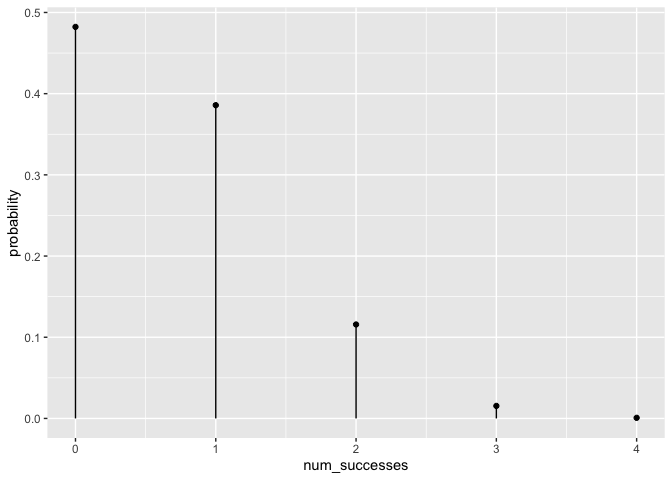
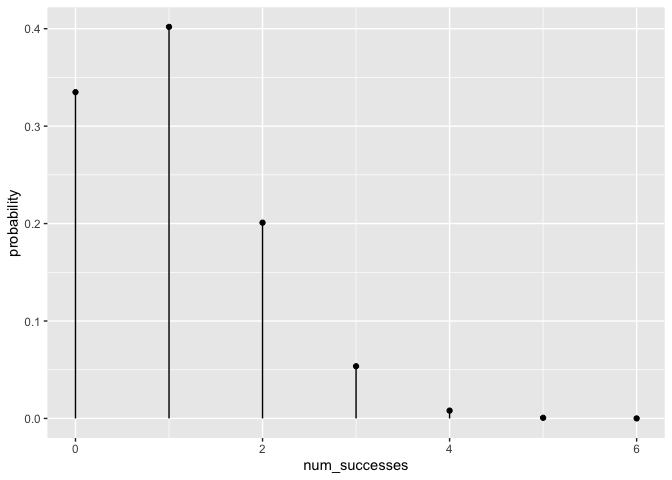
scale_x_counting

diff --git a/docs/index.html b/docs/index.html
@@ -65,7 +65,7 @@
 <div class="section level2">
 <h2 id="abstract">Abstract<a class="anchor" aria-label="anchor" href="#abstract"></a>
 </h2>
-<p>Mathematical fluency involves frequent use of probability distributions. However, visualizing these distributions can be tedious. In a classroom setting with a given curriculum, the set of distributions to be mastered is well defined. Having shortcuts to produce or ingest these distributions in analytic software for display and analysis could be beneficial for students and instructors alike. The goal of this project is to provide ready-to-use dataframes and functions producing relevant dataframes. We make these functions available in the R package <code>ma206distributions</code>.</p>
+<p>Mathematical fluency involves frequent use of probability distributions. However, visualizing these distributions can be tedious. In a fixed statistics and probability curriculum, the set of distributions to be mastered is well defined. In such settings having shortcuts to produce or ingest these distributions in analytic software for display and analysis could be beneficial for students and instructors alike. The goal of this project is to provide ready-to-use objects (dataframes) and functions that will meet students will make it easier to engage computationally and with these distributions. We make these objects and functions available in the R package <code>ma206distributions</code>.</p>
 </div>
 <div class="section level2">
 <h2 id="which-distributions-are-relevant-for-the-statistics-and-probability-course">Which distributions are relevant for the statistics and probability course?<a class="anchor" aria-label="anchor" href="#which-distributions-are-relevant-for-the-statistics-and-probability-course"></a>
@@ -74,6 +74,7 @@
 <ul>
 <li>binomial</li>
 <li>geometric</li>
+<li>normal distribution</li>
 <li>random</li>
 </ul>
 </div>
@@ -81,15 +82,99 @@
 <h2 id="objectives">Objectives<a class="anchor" aria-label="anchor" href="#objectives"></a>
 </h2>
 <ol style="list-style-type: decimal">
+<li>Provide functions that return dataframes relating outcomes and probabilities for binomial and geometric distributions</li>
+<li>Providing quick-viz <em>stamp</em> functions for binomial and geometric distributions (normal and t exist in ggxmean); also think about rewrite for stamp_normal (i.e. what should height distribution look like?)</li>
 <li>Provide additional <strong>dataframes</strong> for ma206 that are probabilities from curriculum (probability problems in text book).<br>
 </li>
-<li>Provide <em>stamp</em> functions for binomial and geometric distributions (normal and t exist in ggxmean); also think about rewrite for stamp_normal (i.e. what should height distribution look like?)</li>
-<li>Let’s try: shiny app which 1) demonstrates distribution characteristics 2) showcases new functions quoting back ggplot code</li>
-<li>stretch? sampling from distributions function or guidance..</li>
+<li>Interactive app which 1) demonstrates distribution characteristics, allowing easy manipulation of parameters 2) connects to new package functionality by quoting back code underlying the app.</li>
 </ol>
+<div class="section level3">
+<h3 id="1-provide-data-frames-that-relate-outcomes-and-probabilities">1. provide data frames that relate outcomes and probabilities<a class="anchor" aria-label="anchor" href="#1-provide-data-frames-that-relate-outcomes-and-probabilities"></a>
+</h3>
+<p>We can look at vectors of outcomes, and then use dbinom to get back a vector of probabilities.</p>
+<div class="sourceCode" id="cb1"><pre class="downlit sourceCode r">
+<code class="sourceCode R"><span><span class="va">num_successes</span> <span class="op">&lt;-</span> <span class="fl">0</span><span class="op">:</span><span class="fl">10</span>; <span class="va">num_successes</span></span></code></pre></div>
+<div class="sourceCode" id="cb2"><pre class="sourceCode R"><code class="sourceCode r"><span id="cb2-1"><a href="#cb2-1"></a><span class="co">##  [1]  0  1  2  3  4  5  6  7  8  9 10</span></span></code></pre></div>
+<div class="sourceCode" id="cb3"><pre class="downlit sourceCode r">
+<code class="sourceCode R"><span><span class="fu"><a href="https://rdrr.io/r/stats/Binomial.html" class="external-link">dbinom</a></span><span class="op">(</span><span class="va">num_successes</span>, prob <span class="op">=</span> <span class="fl">.5</span>, size <span class="op">=</span> <span class="fl">10</span><span class="op">)</span></span></code></pre></div>
+<div class="sourceCode" id="cb4"><pre class="sourceCode R"><code class="sourceCode r"><span id="cb4-1"><a href="#cb4-1"></a><span class="co">##  [1] 0.0009765625 0.0097656250 0.0439453125 0.1171875000 0.2050781250</span></span>
+<span id="cb4-2"><a href="#cb4-2"></a><span class="co">##  [6] 0.2460937500 0.2050781250 0.1171875000 0.0439453125 0.0097656250</span></span>
+<span id="cb4-3"><a href="#cb4-3"></a><span class="co">## [11] 0.0009765625</span></span></code></pre></div>
+<div class="sourceCode" id="cb5"><pre class="downlit sourceCode r">
+<code class="sourceCode R"><span><span class="kw"><a href="https://rdrr.io/r/base/library.html" class="external-link">library</a></span><span class="op">(</span><span class="va">ma206distributions</span><span class="op">)</span></span>
+<span><span class="co"># probability of number of heads in 10 coin flips</span></span>
+<span><span class="fu"><a href="reference/tidy_dbinom.html">tidy_dbinom</a></span><span class="op">(</span>single_trial_prob <span class="op">=</span> <span class="fl">.5</span>, <span class="fl">10</span><span class="op">)</span></span></code></pre></div>
+<div class="sourceCode" id="cb6"><pre class="sourceCode R"><code class="sourceCode r"><span id="cb6-1"><a href="#cb6-1"></a><span class="co">## # A tibble: 11 × 4</span></span>
+<span id="cb6-2"><a href="#cb6-2"></a><span class="co">##    num_successes probability single_trial_prob num_trials</span></span>
+<span id="cb6-3"><a href="#cb6-3"></a><span class="co">##            &lt;int&gt;       &lt;dbl&gt;             &lt;dbl&gt;      &lt;dbl&gt;</span></span>
+<span id="cb6-4"><a href="#cb6-4"></a><span class="co">##  1             0    0.000977               0.5         10</span></span>
+<span id="cb6-5"><a href="#cb6-5"></a><span class="co">##  2             1    0.00977                0.5         10</span></span>
+<span id="cb6-6"><a href="#cb6-6"></a><span class="co">##  3             2    0.0439                 0.5         10</span></span>
+<span id="cb6-7"><a href="#cb6-7"></a><span class="co">##  4             3    0.117                  0.5         10</span></span>
+<span id="cb6-8"><a href="#cb6-8"></a><span class="co">##  5             4    0.205                  0.5         10</span></span>
+<span id="cb6-9"><a href="#cb6-9"></a><span class="co">##  6             5    0.246                  0.5         10</span></span>
+<span id="cb6-10"><a href="#cb6-10"></a><span class="co">##  7             6    0.205                  0.5         10</span></span>
+<span id="cb6-11"><a href="#cb6-11"></a><span class="co">##  8             7    0.117                  0.5         10</span></span>
+<span id="cb6-12"><a href="#cb6-12"></a><span class="co">##  9             8    0.0439                 0.5         10</span></span>
+<span id="cb6-13"><a href="#cb6-13"></a><span class="co">## 10             9    0.00977                0.5         10</span></span>
+<span id="cb6-14"><a href="#cb6-14"></a><span class="co">## 11            10    0.000977               0.5         10</span></span></code></pre></div>
+<div class="sourceCode" id="cb7"><pre class="downlit sourceCode r">
+<code class="sourceCode R"><span><span class="co"># probabilities of rolling 0, 1, 2, 3 or 4 sixes in 4 die roles</span></span>
+<span><span class="fu"><a href="reference/tidy_dbinom.html">tidy_dbinom</a></span><span class="op">(</span>single_trial_prob <span class="op">=</span> <span class="fl">1</span><span class="op">/</span><span class="fl">6</span>, <span class="fl">4</span><span class="op">)</span></span></code></pre></div>
+<div class="sourceCode" id="cb8"><pre class="sourceCode R"><code class="sourceCode r"><span id="cb8-1"><a href="#cb8-1"></a><span class="co">## # A tibble: 5 × 4</span></span>
+<span id="cb8-2"><a href="#cb8-2"></a><span class="co">##   num_successes probability single_trial_prob num_trials</span></span>
+<span id="cb8-3"><a href="#cb8-3"></a><span class="co">##           &lt;int&gt;       &lt;dbl&gt;             &lt;dbl&gt;      &lt;dbl&gt;</span></span>
+<span id="cb8-4"><a href="#cb8-4"></a><span class="co">## 1             0    0.482                0.167          4</span></span>
+<span id="cb8-5"><a href="#cb8-5"></a><span class="co">## 2             1    0.386                0.167          4</span></span>
+<span id="cb8-6"><a href="#cb8-6"></a><span class="co">## 3             2    0.116                0.167          4</span></span>
+<span id="cb8-7"><a href="#cb8-7"></a><span class="co">## 4             3    0.0154               0.167          4</span></span>
+<span id="cb8-8"><a href="#cb8-8"></a><span class="co">## 5             4    0.000772             0.167          4</span></span></code></pre></div>
+<div class="sourceCode" id="cb9"><pre class="downlit sourceCode r">
+<code class="sourceCode R"><span><span class="co"># probability of 0, 1, 2 or 3 wins in 3 spins of a prize wheel  </span></span>
+<span><span class="co"># 12 pie slices, one with big payout</span></span>
+<span><span class="fu"><a href="reference/tidy_dbinom.html">tidy_dbinom</a></span><span class="op">(</span><span class="fl">1</span><span class="op">/</span><span class="fl">12</span>, <span class="fl">3</span><span class="op">)</span></span></code></pre></div>
+<div class="sourceCode" id="cb10"><pre class="sourceCode R"><code class="sourceCode r"><span id="cb10-1"><a href="#cb10-1"></a><span class="co">## # A tibble: 4 × 4</span></span>
+<span id="cb10-2"><a href="#cb10-2"></a><span class="co">##   num_successes probability single_trial_prob num_trials</span></span>
+<span id="cb10-3"><a href="#cb10-3"></a><span class="co">##           &lt;int&gt;       &lt;dbl&gt;             &lt;dbl&gt;      &lt;dbl&gt;</span></span>
+<span id="cb10-4"><a href="#cb10-4"></a><span class="co">## 1             0    0.770               0.0833          3</span></span>
+<span id="cb10-5"><a href="#cb10-5"></a><span class="co">## 2             1    0.210               0.0833          3</span></span>
+<span id="cb10-6"><a href="#cb10-6"></a><span class="co">## 3             2    0.0191              0.0833          3</span></span>
+<span id="cb10-7"><a href="#cb10-7"></a><span class="co">## 4             3    0.000579            0.0833          3</span></span></code></pre></div>
+</div>
+<div class="section level3">
+<h3 id="2-stamp-visualizations">2. Stamp visualizations<a class="anchor" aria-label="anchor" href="#2-stamp-visualizations"></a>
+</h3>
+<div class="sourceCode" id="cb11"><pre class="downlit sourceCode r">
+<code class="sourceCode R"><span><span class="kw"><a href="https://rdrr.io/r/base/library.html" class="external-link">library</a></span><span class="op">(</span><span class="va"><a href="https://ggplot2.tidyverse.org" class="external-link">ggplot2</a></span><span class="op">)</span></span>
+<span><span class="fu"><a href="https://ggplot2.tidyverse.org/reference/ggplot.html" class="external-link">ggplot</a></span><span class="op">(</span><span class="op">)</span> <span class="op">+</span> </span>
+<span>  <span class="fu"><a href="reference/geom_lollipop.html">geom_lollipop</a></span><span class="op">(</span>data <span class="op">=</span> <span class="fu"><a href="reference/tidy_dbinom.html">tidy_dbinom</a></span><span class="op">(</span>single_trial_prob <span class="op">=</span> <span class="fl">.5</span>, <span class="fl">10</span><span class="op">)</span>,</span>
+<span>                <span class="fu"><a href="https://ggplot2.tidyverse.org/reference/aes.html" class="external-link">aes</a></span><span class="op">(</span>x <span class="op">=</span> <span class="va">num_successes</span>, y <span class="op">=</span> <span class="va">probability</span><span class="op">)</span><span class="op">)</span></span></code></pre></div>
+<p><img src="README_files/figure-gfm/unnamed-chunk-3-1.png"><!-- --></p>
+<div class="sourceCode" id="cb12"><pre class="downlit sourceCode r">
+<code class="sourceCode R"><span><span class="va">stamp_dbinom</span> <span class="op">&lt;-</span> <span class="kw">function</span><span class="op">(</span><span class="va">single_trial_prob</span> <span class="op">=</span> <span class="fl">.5</span>, <span class="va">num_trials</span> <span class="op">=</span> <span class="fl">10</span><span class="op">)</span><span class="op">{</span></span>
+<span>  </span>
+<span>  <span class="fu"><a href="reference/geom_lollipop.html">geom_lollipop</a></span><span class="op">(</span>data <span class="op">=</span> <span class="fu"><a href="reference/tidy_dbinom.html">tidy_dbinom</a></span><span class="op">(</span>single_trial_prob <span class="op">=</span> <span class="va">single_trial_prob</span>, </span>
+<span>                                   num_trials <span class="op">=</span> <span class="va">num_trials</span><span class="op">)</span>,</span>
+<span>                <span class="fu"><a href="https://ggplot2.tidyverse.org/reference/aes.html" class="external-link">aes</a></span><span class="op">(</span>x <span class="op">=</span> <span class="va">num_successes</span>, y <span class="op">=</span> <span class="va">probability</span><span class="op">)</span><span class="op">)</span></span>
+<span>  </span>
+<span><span class="op">}</span></span>
+<span></span>
+<span></span>
+<span><span class="fu"><a href="https://ggplot2.tidyverse.org/reference/ggplot.html" class="external-link">ggplot</a></span><span class="op">(</span><span class="op">)</span> <span class="op">+</span> </span>
+<span>  <span class="fu">stamp_dbinom</span><span class="op">(</span><span class="op">)</span></span></code></pre></div>
+<p><img src="README_files/figure-gfm/unnamed-chunk-4-1.png"><!-- --></p>
+<div class="sourceCode" id="cb13"><pre class="downlit sourceCode r">
+<code class="sourceCode R"><span><span class="fu"><a href="https://ggplot2.tidyverse.org/reference/ggplot.html" class="external-link">ggplot</a></span><span class="op">(</span><span class="op">)</span> <span class="op">+</span> </span>
+<span>  <span class="fu">stamp_dbinom</span><span class="op">(</span><span class="fl">1</span><span class="op">/</span><span class="fl">6</span>, num_trials <span class="op">=</span> <span class="fl">6</span><span class="op">)</span></span></code></pre></div>
+<p><img src="README_files/figure-gfm/unnamed-chunk-4-2.png"><!-- --></p>
+<div class="sourceCode" id="cb14"><pre class="downlit sourceCode r">
+<code class="sourceCode R"><span><span class="fu"><a href="https://ggplot2.tidyverse.org/reference/ggplot.html" class="external-link">ggplot</a></span><span class="op">(</span><span class="op">)</span> <span class="op">+</span> </span>
+<span>  <span class="fu">stamp_dbinom</span><span class="op">(</span><span class="fl">1</span><span class="op">/</span><span class="fl">12</span>, num_trials <span class="op">=</span> <span class="fl">3</span><span class="op">)</span></span></code></pre></div>
+<p><img src="README_files/figure-gfm/unnamed-chunk-4-3.png"><!-- --></p>
+</div>
 </div>
 <div class="section level2">
-<h2 id="tidying-data-from-discrete-random-variable-probability-problems">Tidying data from discrete random variable probability problems<a class="anchor" aria-label="anchor" href="#tidying-data-from-discrete-random-variable-probability-problems"></a>
+<h2 id="3-tidying-data-from-discrete-random-variable-probability-problems">3. Tidying data from discrete random variable probability problems<a class="anchor" aria-label="anchor" href="#3-tidying-data-from-discrete-random-variable-probability-problems"></a>
 </h2>
 <p>Tidying up data is important so that when the data is inputted into R or any coding language. This process of ‘tidying’ data creates a well-organized and structured format that is easier for data analysis and visualization.</p>
 <p>Probability tables are often communicated in untidy, wide forms not easily ingested by statistical software. (another example: <a href="http://www.stat.yale.edu/Courses/1997-98/101/ranvar.htm#" class="external-link uri">http://www.stat.yale.edu/Courses/1997-98/101/ranvar.htm#</a>:~:text=A%20discrete%20random%20variable%20is,then%20it%20must%20be%20discrete) For example, the table was provided for a probability problem about a spinning wheel with pie sectors with various prize award amounts:</p>
@@ -108,7 +193,7 @@
 </tr>
 </tbody></table>
 <p>The table summarized the situation:</p>
-<p><img src="README_files/figure-gfm/unnamed-chunk-2-1.png"><!-- --></p>
+<p><img src="README_files/figure-gfm/unnamed-chunk-6-1.png"><!-- --></p>
 <p>To get the data into a tidy, ready-to-use form, we transposed the table from wide to long so that a variable is a columns and the column headers inform us about the content. This way, each row forms an observation, in this case an event type. The spinning of the prize wheel has three outcomes based on which sector type the wheel landed on: no prize, win $1, and win $3. We added a numeric column ‘payout’ too which we makes the data easier to use from a mathematical standpoint. Below is our tidied data.</p>
 <table class="table">
 <thead><tr class="header">
@@ -135,15 +220,15 @@
 </tbody>
 </table>
 <p>In our package we include the data structured in this way, and call the object <code>prize_wheel</code>:</p>
-<div class="sourceCode" id="cb1"><pre class="downlit sourceCode r">
+<div class="sourceCode" id="cb15"><pre class="downlit sourceCode r">
 <code class="sourceCode R"><span><span class="kw"><a href="https://rdrr.io/r/base/library.html" class="external-link">library</a></span><span class="op">(</span><span class="va">ma206distributions</span><span class="op">)</span></span>
 <span><span class="fu"><a href="https://rdrr.io/r/base/print.html" class="external-link">print</a></span><span class="op">(</span><span class="va">prize_wheel</span><span class="op">)</span></span></code></pre></div>
-<div class="sourceCode" id="cb2"><pre class="sourceCode R"><code class="sourceCode r"><span id="cb2-1"><a href="#cb2-1"></a><span class="co">##   sector_type frequency payout</span></span>
-<span id="cb2-2"><a href="#cb2-2"></a><span class="co">## 1    No Prize         9      0</span></span>
-<span id="cb2-3"><a href="#cb2-3"></a><span class="co">## 2      Win $1         1      1</span></span>
-<span id="cb2-4"><a href="#cb2-4"></a><span class="co">## 3      Win $3         2      3</span></span></code></pre></div>
+<div class="sourceCode" id="cb16"><pre class="sourceCode R"><code class="sourceCode r"><span id="cb16-1"><a href="#cb16-1"></a><span class="co">##   sector_type frequency payout</span></span>
+<span id="cb16-2"><a href="#cb16-2"></a><span class="co">## 1    No Prize         9      0</span></span>
+<span id="cb16-3"><a href="#cb16-3"></a><span class="co">## 2      Win $1         1      1</span></span>
+<span id="cb16-4"><a href="#cb16-4"></a><span class="co">## 3      Win $3         2      3</span></span></code></pre></div>
 <p>We see that we can easily visualize the joint distribution of payout and frequency using the ggplot2 tool that is used heavily in the statistics part of the class.</p>
-<div class="sourceCode" id="cb3"><pre class="downlit sourceCode r">
+<div class="sourceCode" id="cb17"><pre class="downlit sourceCode r">
 <code class="sourceCode R"><span><span class="kw"><a href="https://rdrr.io/r/base/library.html" class="external-link">library</a></span><span class="op">(</span><span class="va"><a href="https://tidyverse.tidyverse.org" class="external-link">tidyverse</a></span><span class="op">)</span></span>
 <span><span class="va">prize_wheel</span> <span class="op"><a href="https://magrittr.tidyverse.org/reference/pipe.html" class="external-link">%&gt;%</a></span> </span>
 <span>  <span class="fu"><a href="https://ggplot2.tidyverse.org/reference/ggplot.html" class="external-link">ggplot</a></span><span class="op">(</span><span class="op">)</span> <span class="op">+</span> </span>
@@ -153,23 +238,23 @@
 <span>  <span class="fu"><a href="https://ggplot2.tidyverse.org/reference/aes.html" class="external-link">aes</a></span><span class="op">(</span>weight <span class="op">=</span> <span class="va">frequency</span><span class="op">)</span> <span class="op">+</span></span>
 <span>  <span class="fu"><a href="reference/geom_fulcrum.html">geom_fulcrum</a></span><span class="op">(</span>color <span class="op">=</span> <span class="st">"red"</span>, </span>
 <span>               shape <span class="op">=</span> <span class="fl">2</span>, size <span class="op">=</span> <span class="fl">5</span><span class="op">)</span></span></code></pre></div>
-<p><img src="README_files/figure-gfm/unnamed-chunk-5-1.png"><!-- --></p>
+<p><img src="README_files/figure-gfm/unnamed-chunk-9-1.png"><!-- --></p>
 </div>
 <div class="section level1">
 <div class="page-header"><h1 id="the-tabular-data-can-also-be-used-to-walk-through-computations-like-finding-the-expected-value-of-the-prize-wheel-spin">The tabular data can also be used to walk through computations, like finding the expected value of the prize wheel spin.<a class="anchor" aria-label="anchor" href="#the-tabular-data-can-also-be-used-to-walk-through-computations-like-finding-the-expected-value-of-the-prize-wheel-spin"></a>
 </h1></div>
-<div class="sourceCode" id="cb4"><pre class="downlit sourceCode r">
+<div class="sourceCode" id="cb18"><pre class="downlit sourceCode r">
 <code class="sourceCode R"><span><span class="fu"><a href="https://rdrr.io/r/base/sum.html" class="external-link">sum</a></span><span class="op">(</span><span class="va">prize_wheel</span><span class="op">$</span><span class="va">payout</span> <span class="op">*</span></span>
 <span>  <span class="va">prize_wheel</span><span class="op">$</span><span class="va">frequency</span><span class="op">)</span> <span class="op">/</span></span>
 <span>  <span class="fu"><a href="https://rdrr.io/r/base/sum.html" class="external-link">sum</a></span><span class="op">(</span><span class="va">prize_wheel</span><span class="op">$</span><span class="va">frequency</span><span class="op">)</span></span></code></pre></div>
-<div class="sourceCode" id="cb5"><pre class="sourceCode R"><code class="sourceCode r"><span id="cb5-1"><a href="#cb5-1"></a><span class="co">## [1] 0.5833333</span></span></code></pre></div>
-<div class="sourceCode" id="cb6"><pre class="downlit sourceCode r">
+<div class="sourceCode" id="cb19"><pre class="sourceCode R"><code class="sourceCode r"><span id="cb19-1"><a href="#cb19-1"></a><span class="co">## [1] 0.5833333</span></span></code></pre></div>
+<div class="sourceCode" id="cb20"><pre class="downlit sourceCode r">
 <code class="sourceCode R"><span><span class="kw"><a href="https://rdrr.io/r/base/library.html" class="external-link">library</a></span><span class="op">(</span><span class="va"><a href="https://tidyverse.tidyverse.org" class="external-link">tidyverse</a></span><span class="op">)</span></span>
 <span><span class="kw"><a href="https://rdrr.io/r/base/library.html" class="external-link">library</a></span><span class="op">(</span><span class="va">ggxmean</span><span class="op">)</span></span>
 <span></span>
 <span><span class="fu">ggxmean</span><span class="fu">:::</span><span class="fu"><a href="https://rdrr.io/pkg/ggxmean/man/stamp_space.html" class="external-link">stamp_space</a></span><span class="op">(</span><span class="op">)</span> <span class="op">+</span> </span>
 <span>  <span class="fu"><a href="https://rdrr.io/pkg/ggxmean/man/stamp_normal_dist.html" class="external-link">stamp_normal_dist</a></span><span class="op">(</span><span class="op">)</span></span></code></pre></div>
-<p><img src="README_files/figure-gfm/unnamed-chunk-7-1.png"><!-- --></p>
+<p><img src="README_files/figure-gfm/unnamed-chunk-11-1.png"><!-- --></p>
 </div>
 <div class="section level1">
 <h1 id="project-timeline">Project timeline<a class="anchor" aria-label="anchor" href="#project-timeline"></a>
@@ -230,14 +315,14 @@
 <div class="figure">
 <img src="https://latex.codecogs.com/png.image?%5Cdpi%7B110%7D&amp;space;%5Cbg_white&amp;space;%7B%7B_N%7DC%7B_k%7D%7D%20%2A%20p%5Ekq%5E%7BN-k%7D%20%22%7B%7B_N%7DC%7B_k%7D%7D%20*%20p%5Ekq%5E%7BN-k%7D%22" alt=""><p class="caption">{{_N}C{_k}} * p<sup>kq</sup>{N-k}</p>
 </div>
-<div class="sourceCode" id="cb7"><pre class="downlit sourceCode r">
+<div class="sourceCode" id="cb21"><pre class="downlit sourceCode r">
 <code class="sourceCode R"><span><span class="kw"><a href="https://rdrr.io/r/base/library.html" class="external-link">library</a></span><span class="op">(</span><span class="va"><a href="https://tidyverse.tidyverse.org" class="external-link">tidyverse</a></span><span class="op">)</span></span>
 <span></span>
 <span></span>
 <span><span class="fu">latex2exp</span><span class="fu">::</span><span class="fu"><a href="https://www.stefanom.io/latex2exp/reference/TeX.html" class="external-link">TeX</a></span><span class="op">(</span><span class="st">"${{_N}C{_k}} \\cdot p^kq^{N-k}$"</span><span class="op">)</span></span></code></pre></div>
-<div class="sourceCode" id="cb8"><pre class="sourceCode R"><code class="sourceCode r"><span id="cb8-1"><a href="#cb8-1"></a><span class="co">##    LaTeX: ${{_N}C{_k}} \cdot p^kq^{N-k}$ </span></span>
-<span id="cb8-2"><a href="#cb8-2"></a><span class="co">## plotmath: </span><span class="re">{{{</span><span class="co">}[N]}*C * {{}[k]}} %.% p^{k}*q^{N - k}</span></span></code></pre></div>
-<div class="sourceCode" id="cb9"><pre class="downlit sourceCode r">
+<div class="sourceCode" id="cb22"><pre class="sourceCode R"><code class="sourceCode r"><span id="cb22-1"><a href="#cb22-1"></a><span class="co">##    LaTeX: ${{_N}C{_k}} \cdot p^kq^{N-k}$ </span></span>
+<span id="cb22-2"><a href="#cb22-2"></a><span class="co">## plotmath: </span><span class="re">{{{</span><span class="co">}[N]}*C * {{}[k]}} %.% p^{k}*q^{N - k}</span></span></code></pre></div>
+<div class="sourceCode" id="cb23"><pre class="downlit sourceCode r">
 <code class="sourceCode R"><span><span class="va">single_trial_prob</span> <span class="op">&lt;-</span> <span class="fl">.5</span></span>
 <span><span class="va">num_trials</span> <span class="op">&lt;-</span> <span class="fl">10</span></span>
 <span><span class="fl">0</span><span class="op">:</span><span class="va">num_trials</span> <span class="op">-&gt;</span></span>
@@ -270,9 +355,9 @@
 <span>    <span class="va">binomial_distribution</span></span>
 <span></span>
 <span><span class="va">binomial_distribution</span></span></code></pre></div>
-<p><img src="README_files/figure-gfm/unnamed-chunk-8-1.png"><!-- --></p>
+<p><img src="README_files/figure-gfm/unnamed-chunk-12-1.png"><!-- --></p>
 <p>Another possibility is using the <code><a href="https://ggplot2.tidyverse.org/reference/geom_function.html" class="external-link">stat_function()</a></code> function in ggplot2 to produce visualizations of a binomial distribution. Below, we show how you can visualize the binomial distribution for 20 trials and .2 is the probability of success for each trial. Using the <code><a href="https://ggplot2.tidyverse.org/reference/geom_function.html" class="external-link">stat_function()</a></code> carefully, you can get a similar outcome. However, there is a lot of coordination that’s required: <code>20</code> shows up about three times in the construction for example in xlim(); in <code>n = 21</code> (20 + 1 possible outcomes); and finally in the <code>args</code> list. Producing this plot requires a lot of foreknowledge. With our alternative strategies, (delivering data frames and stamps), we hope to give students something they can produce easily, and <em>then</em> have a conversation about why the distribution has the form it does.</p>
-<div class="sourceCode" id="cb10"><pre class="downlit sourceCode r">
+<div class="sourceCode" id="cb24"><pre class="downlit sourceCode r">
 <code class="sourceCode R"><span><span class="kw"><a href="https://rdrr.io/r/base/library.html" class="external-link">library</a></span><span class="op">(</span><span class="va"><a href="https://ggplot2.tidyverse.org" class="external-link">ggplot2</a></span><span class="op">)</span></span>
 <span><span class="fu"><a href="https://ggplot2.tidyverse.org/reference/ggplot.html" class="external-link">ggplot</a></span><span class="op">(</span><span class="op">)</span> <span class="op">+</span> </span>
 <span>  <span class="fu"><a href="https://ggplot2.tidyverse.org/reference/lims.html" class="external-link">xlim</a></span><span class="op">(</span><span class="fl">0</span>, <span class="fl">20</span><span class="op">)</span> <span class="op">+</span></span>
@@ -283,13 +368,13 @@
 <span>  <span class="fu"><a href="https://ggplot2.tidyverse.org/reference/labs.html" class="external-link">labs</a></span><span class="op">(</span>y <span class="op">=</span> <span class="st">"Probability"</span><span class="op">)</span> <span class="op">+</span> </span>
 <span>  <span class="fu"><a href="https://ggplot2.tidyverse.org/reference/labs.html" class="external-link">labs</a></span><span class="op">(</span>x <span class="op">=</span> <span class="st">"Number of successes in 20 trials"</span><span class="op">)</span> <span class="op">+</span> </span>
 <span>  <span class="fu"><a href="https://ggplot2.tidyverse.org/reference/labs.html" class="external-link">labs</a></span><span class="op">(</span>title <span class="op">=</span> <span class="st">"Given 20 trials where the probability for success in a single\n trial is .2, what are the probabilities for each possible\nnumber of observed successes "</span><span class="op">)</span></span></code></pre></div>
-<p><img src="README_files/figure-gfm/unnamed-chunk-9-1.png"><!-- --></p>
+<p><img src="README_files/figure-gfm/unnamed-chunk-13-1.png"><!-- --></p>
 </div>
 <div class="section level2">
 <h2 id="visualizing-a-discrete-random-variable-without-ma206distributions-functions">Visualizing a Discrete Random Variable without {ma206distributions} functions<a class="anchor" aria-label="anchor" href="#visualizing-a-discrete-random-variable-without-ma206distributions-functions"></a>
 </h2>
 <p>Probability problems could be structured as data frames visualized with the same tools used in the stats part of the class.</p>
-<div class="sourceCode" id="cb11"><pre class="downlit sourceCode r">
+<div class="sourceCode" id="cb25"><pre class="downlit sourceCode r">
 <code class="sourceCode R"><span><span class="fu"><a href="https://tibble.tidyverse.org/reference/tibble.html" class="external-link">tibble</a></span><span class="op">(</span>event <span class="op">=</span> <span class="fu"><a href="https://rdrr.io/r/base/c.html" class="external-link">c</a></span><span class="op">(</span><span class="st">"totaled"</span>, <span class="st">"fender bender"</span>, <span class="st">"accident free"</span><span class="op">)</span>,</span>
 <span>       probability <span class="op">=</span> <span class="fu"><a href="https://rdrr.io/r/base/c.html" class="external-link">c</a></span><span class="op">(</span><span class="fl">.01</span>, <span class="fl">.09</span>, <span class="fl">.9</span><span class="op">)</span>,</span>
 <span>       payout <span class="op">=</span> <span class="fu"><a href="https://rdrr.io/r/base/c.html" class="external-link">c</a></span><span class="op">(</span><span class="fl">20000</span>, <span class="fl">5000</span>, <span class="fl">0</span><span class="op">)</span><span class="op">)</span> <span class="op">-&gt;</span></span>
@@ -324,25 +409,25 @@
 <span>  <span class="fu"><a href="https://ggplot2.tidyverse.org/reference/annotate.html" class="external-link">annotate</a></span><span class="op">(</span>geom <span class="op">=</span> <span class="st">"text"</span>, label <span class="op">=</span> <span class="va">plotmath_sd</span>, parse <span class="op">=</span> <span class="cn">T</span>,</span>
 <span>           x <span class="op">=</span> <span class="fl">12000</span>, y <span class="op">=</span> <span class="fl">.65</span><span class="op">)</span> <span class="op">-&gt;</span></span>
 <span><span class="va">discrete_random</span></span></code></pre></div>
-<div class="sourceCode" id="cb12"><pre class="sourceCode R"><code class="sourceCode r"><span id="cb12-1"><a href="#cb12-1"></a><span class="co">## Warning in geom_fulcrum(aes(weight = probability)): Ignoring unknown</span></span>
-<span id="cb12-2"><a href="#cb12-2"></a><span class="co">## aesthetics: weight</span></span></code></pre></div>
-<div class="sourceCode" id="cb13"><pre class="downlit sourceCode r">
+<div class="sourceCode" id="cb26"><pre class="sourceCode R"><code class="sourceCode r"><span id="cb26-1"><a href="#cb26-1"></a><span class="co">## Warning in geom_fulcrum(aes(weight = probability)): Ignoring unknown</span></span>
+<span id="cb26-2"><a href="#cb26-2"></a><span class="co">## aesthetics: weight</span></span></code></pre></div>
+<div class="sourceCode" id="cb27"><pre class="downlit sourceCode r">
 <code class="sourceCode R"><span><span class="va">discrete_random</span></span></code></pre></div>
-<div class="sourceCode" id="cb14"><pre class="sourceCode R"><code class="sourceCode r"><span id="cb14-1"><a href="#cb14-1"></a><span class="co">## Warning: The following aesthetics were dropped during statistical transformation: weight</span></span>
-<span id="cb14-2"><a href="#cb14-2"></a><span class="co">## ℹ This can happen when ggplot fails to infer the correct grouping structure in</span></span>
-<span id="cb14-3"><a href="#cb14-3"></a><span class="co">##   the data.</span></span>
-<span id="cb14-4"><a href="#cb14-4"></a><span class="co">## ℹ Did you forget to specify a `group` aesthetic or to convert a numerical</span></span>
-<span id="cb14-5"><a href="#cb14-5"></a><span class="co">##   variable into a factor?</span></span>
-<span id="cb14-6"><a href="#cb14-6"></a></span>
-<span id="cb14-7"><a href="#cb14-7"></a><span class="co">## Warning in is.na(x): is.na() applied to non-(list or vector) of type</span></span>
-<span id="cb14-8"><a href="#cb14-8"></a><span class="co">## 'expression'</span></span>
-<span id="cb14-9"><a href="#cb14-9"></a></span>
-<span id="cb14-10"><a href="#cb14-10"></a><span class="co">## Warning in is.na(x): is.na() applied to non-(list or vector) of type</span></span>
-<span id="cb14-11"><a href="#cb14-11"></a><span class="co">## 'expression'</span></span>
-<span id="cb14-12"><a href="#cb14-12"></a></span>
-<span id="cb14-13"><a href="#cb14-13"></a><span class="co">## Warning in is.na(x): is.na() applied to non-(list or vector) of type</span></span>
-<span id="cb14-14"><a href="#cb14-14"></a><span class="co">## 'expression'</span></span></code></pre></div>
-<p><img src="README_files/figure-gfm/unnamed-chunk-10-1.png"><!-- --></p>
+<div class="sourceCode" id="cb28"><pre class="sourceCode R"><code class="sourceCode r"><span id="cb28-1"><a href="#cb28-1"></a><span class="co">## Warning: The following aesthetics were dropped during statistical transformation: weight</span></span>
+<span id="cb28-2"><a href="#cb28-2"></a><span class="co">## ℹ This can happen when ggplot fails to infer the correct grouping structure in</span></span>
+<span id="cb28-3"><a href="#cb28-3"></a><span class="co">##   the data.</span></span>
+<span id="cb28-4"><a href="#cb28-4"></a><span class="co">## ℹ Did you forget to specify a `group` aesthetic or to convert a numerical</span></span>
+<span id="cb28-5"><a href="#cb28-5"></a><span class="co">##   variable into a factor?</span></span>
+<span id="cb28-6"><a href="#cb28-6"></a></span>
+<span id="cb28-7"><a href="#cb28-7"></a><span class="co">## Warning in is.na(x): is.na() applied to non-(list or vector) of type</span></span>
+<span id="cb28-8"><a href="#cb28-8"></a><span class="co">## 'expression'</span></span>
+<span id="cb28-9"><a href="#cb28-9"></a></span>
+<span id="cb28-10"><a href="#cb28-10"></a><span class="co">## Warning in is.na(x): is.na() applied to non-(list or vector) of type</span></span>
+<span id="cb28-11"><a href="#cb28-11"></a><span class="co">## 'expression'</span></span>
+<span id="cb28-12"><a href="#cb28-12"></a></span>
+<span id="cb28-13"><a href="#cb28-13"></a><span class="co">## Warning in is.na(x): is.na() applied to non-(list or vector) of type</span></span>
+<span id="cb28-14"><a href="#cb28-14"></a><span class="co">## 'expression'</span></span></code></pre></div>
+<p><img src="README_files/figure-gfm/unnamed-chunk-14-1.png"><!-- --></p>
 <p>See also:</p>
 <ul>
 <li><a href="https://evamaerey.github.io/mytidytuesday/2022-08-01-dbinom-dgeom/dbinom_dgeom.html" class="external-link uri">https://evamaerey.github.io/mytidytuesday/2022-08-01-dbinom-dgeom/dbinom_dgeom.html</a></li>

diff --git a/README.md b/README.md
@@ -13,14 +13,15 @@ analytics in ggplot2
 ## Abstract
 
 Mathematical fluency involves frequent use of probability distributions.
-However, visualizing these distributions can be tedious. In a classroom
-setting with a given curriculum, the set of distributions to be mastered
-is well defined. Having shortcuts to produce or ingest these
-distributions in analytic software for display and analysis could be
-beneficial for students and instructors alike. The goal of this project
-is to provide ready-to-use dataframes and functions producing relevant
-dataframes. We make these functions available in the R package
-`ma206distributions`.
+However, visualizing these distributions can be tedious. In a fixed
+statistics and probability curriculum, the set of distributions to be
+mastered is well defined. In such settings having shortcuts to produce
+or ingest these distributions in analytic software for display and
+analysis could be beneficial for students and instructors alike. The
+goal of this project is to provide ready-to-use objects (dataframes) and
+functions that will meet students will make it easier to engage
+computationally and with these distributions. We make these objects and
+functions available in the R package `ma206distributions`.
 
 ## Which distributions are relevant for the statistics and probability course?
 
@@ -29,6 +30,7 @@ course guide:
 
   - binomial
   - geometric
+  - normal distribution
   - random
 
 ## Objectives
@@ -41,8 +43,9 @@ course guide:
     like?)
 3.  Provide additional **dataframes** for ma206 that are probabilities
     from curriculum (probability problems in text book).  
-4.  Let’s try: shiny app which 1) demonstrates distribution
-    characteristics 2) showcases new functions quoting back ggplot code
+4.  Interactive app which 1) demonstrates distribution characteristics,
+    allowing easy manipulation of parameters 2) connects to new package
+    functionality by quoting back code underlying the app.
 
 ### 1\. provide data frames that relate outcomes and probabilities
 
@@ -141,7 +144,7 @@ ggplot() +
 
 ``` r
 ggplot() + 
-  stamp_dbinom(1/6, num_trials = 4)
+  stamp_dbinom(1/6, num_trials = 6)
 ```
 
 ![](README_files/figure-gfm/unnamed-chunk-4-2.png)<!-- -->
